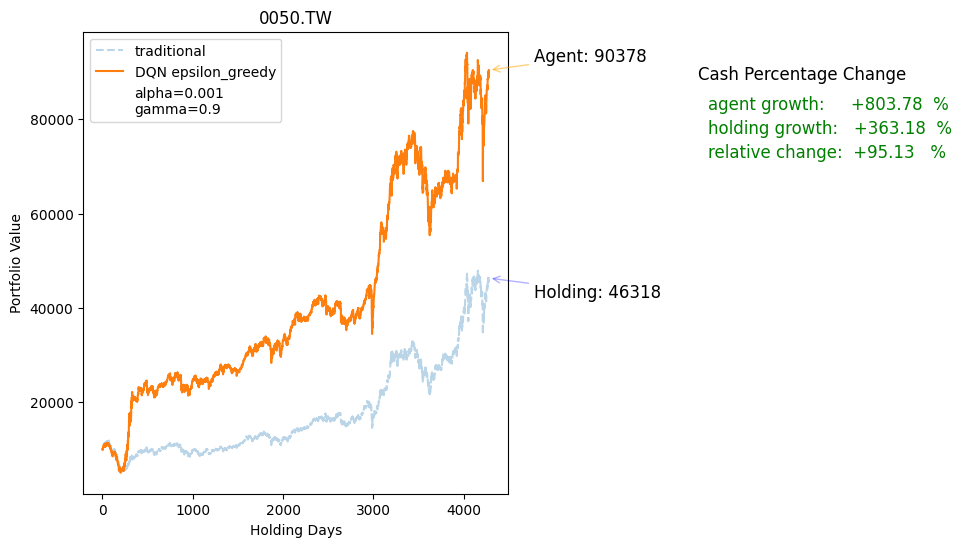
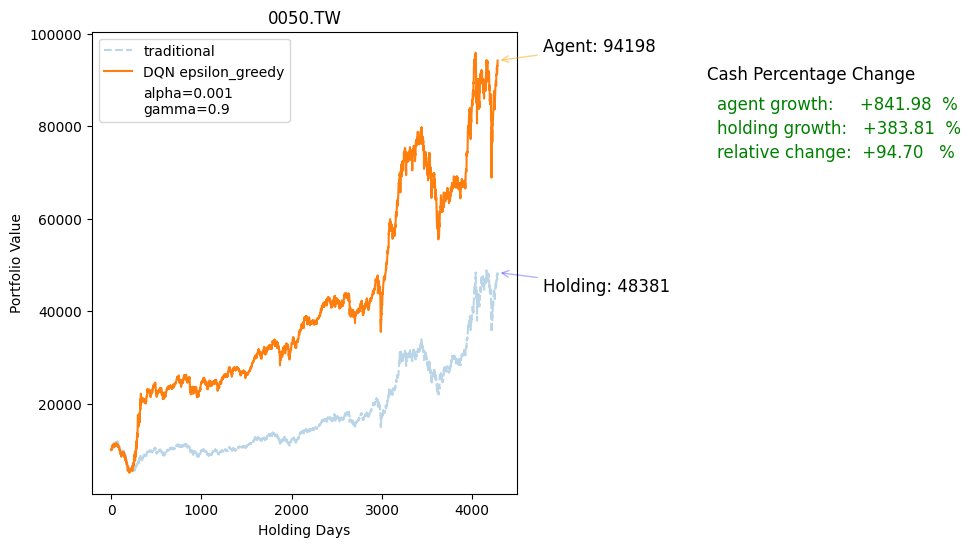
create save_best.sh shell script for copying files

diff --git a/main.py b/main.py
@@ -88,8 +88,8 @@ def main():
         action_policy='epsilon_greedy',
         alpha=0.001, gamma=0.9,
     )
-    # q_epsilon_agent.train(stock_data)
-    q_epsilon_agent.load_q_table(load_best=True)
+    q_epsilon_agent.train(stock_data)
+    # q_epsilon_agent.load_q_table(load_best=True)
 
     # agent 2: q learning, softmax method
     q_soft_agent = RLAgent(
@@ -97,8 +97,8 @@ def main():
         action_policy='softmax_method',
         alpha=0.1, gamma=0.9,
     )
-    # q_soft_agent.train(stock_data)
-    q_soft_agent.load_q_table(load_best=True)
+    q_soft_agent.train(stock_data)
+    # q_soft_agent.load_q_table(load_best=True)
 
     # agent 3: sarsa, epsilon greed 
     s_epsilon_agent = RLAgent(
@@ -106,8 +106,8 @@ def main():
         action_policy='epsilon_greedy',
         alpha=0.001, gamma=0.9,
     )
-    # s_epsilon_agent.train(stock_data)
-    s_epsilon_agent.load_q_table(load_best=True)
+    s_epsilon_agent.train(stock_data)
+    # s_epsilon_agent.load_q_table(load_best=True)
 
     # agent 4: sarsa, softmax method
     s_soft_agent = RLAgent(
@@ -115,8 +115,8 @@ def main():
         action_policy='softmax_method',
         alpha=0.001, gamma=0.9,
     )
-    # s_soft_agent.train(stock_data)
-    s_soft_agent.load_q_table(load_best=True)
+    s_soft_agent.train(stock_data)
+    # s_soft_agent.load_q_table(load_best=True)
 
 #######################################################################
     stock_data_ = deep_agent_preprocess(stock_data)
@@ -166,21 +166,21 @@ def main():
     ds_soft_agent.load_weight(load_best=True)
 
 ##########################################################################
-    # agent 1
-    q_epsilon_agent.evaluate_learning(stock_data)
-    q_epsilon_agent.write_document()
+    # # agent 1
+    # q_epsilon_agent.evaluate_learning(stock_data)
+    # q_epsilon_agent.write_document()
 
-    # agent 2
-    q_soft_agent.evaluate_learning(stock_data)
-    q_soft_agent.write_document()
+    # # agent 2
+    # q_soft_agent.evaluate_learning(stock_data)
+    # q_soft_agent.write_document()
 
-    # agent 3
-    s_epsilon_agent.evaluate_learning(stock_data)
-    s_epsilon_agent.write_document()
+    # # agent 3
+    # s_epsilon_agent.evaluate_learning(stock_data)
+    # s_epsilon_agent.write_document()
 
-    # agent 4
-    s_soft_agent.evaluate_learning(stock_data)
-    s_soft_agent.write_document()
+    # # agent 4
+    # s_soft_agent.evaluate_learning(stock_data)
+    # s_soft_agent.write_document()
 
     # agent 5
     dqn_eps_agent.evaluate_learning(stock_data_)

diff --git a/packages/agent.py b/packages/agent.py
@@ -336,6 +336,8 @@ class RLAgent:
         self.shares = shares * close_prices[-1]
         self.values_learning_last = values_learning[-1]
 
+        self.save_q_table()
+
         return values_learning[-1]
 
         
